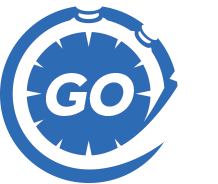
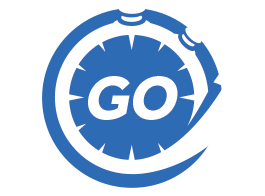
W.I.P

diff --git a/Design.css b/Design.css
@@ -93,24 +93,51 @@ body {
 	transform: scale(1.03) rotate(-5deg);
 }
 .fitness1{
-	width: 95%;
+	width: 100%;
 	height: auto;
 	display: block;
 	margin: 0 auto;
 	margin-bottom: 2%;
 }
-.fitness2{
-	position: relative;
-	height: 1000px;
-	width: auto;
-	clip-path: polygon(0 0, 80% 0, 65% 100%, 0% 100%);
+.fitness3{
+    position: absolute;
+    width: 40%;
+    clip-path: polygon(5% 35%, 100% 35%, 100% 100%, 0% 100%);
+    margin-right: 5%;
+    margin-top: 2%;
+    margin-left: -42%;
+}
+.info1{
+    float: left;
+    top: 10px;
+    background : #306CB4;
+    width: 40%;
+    height: 250px;
+    margin-bottom: 1%;
+    margin-right: 50%;
+    clip-path: polygon(0% 0, 100% 0, 95% 100%, 0% 100%);
+    margin-left: 5%;
+    z-index: 1;
+    margin-top: 2%;
 }
 
-.fitness3{
-	position: absolute;
-	height: 1000px;
-	width: auto;
-	clip-path: polygon(70% 0, 100% 0, 100% 100%, 55% 100%);
+.info1 h2{
+    padding-top: 10px;
+    padding-right: 20px;
+    padding-left: 20px;
+    height: 40px;
+    color: #F2F3F6;
+    text-decoration: none;
+    font-size: 40px;
+}
+.info1 p{
+    padding-right: 60px;
+    padding-left: 20px;
+    padding-bottom: 10px;
+    height: 40px;
+    color: #F2F3F6;
+    text-decoration: none;
+    font-size: 20px;
 }
 .Text1{
 	width: 100%;
@@ -134,7 +161,6 @@ body {
 .Ueberschrift{
 	width: 100%;
 	text-align: center;
-	text-shadow: 2px 2px 5px #00063D;
 	margin-top: -3%;
 	font-weight: 600;
 	font-size: 620%;
@@ -205,13 +231,13 @@ a.krafttraining:hover ~ .fitnesstext4{
 	float: left;
 }
 .footer{
-	position: relative;
+    position: relative;
     width: 100%;
     height: 15%;
     right: 0;
     bottom: 0;
     left: 0;
-    color: #000; 
+    color: #000;
     background-color: #306CB4;
     clear: both;
 }

diff --git a/MyTime - Startseite.html b/MyTime - Startseite.html
@@ -49,8 +49,11 @@
 				<p>GET STARTED NOW!</p>
 				</div>
 			</div>
-			<img src="Bilder/Go-Button-centered.png" alt="Go-Button" class="goButton">
-			<img src="Bilder/pic-3.png" alt="fitness2" class="fitness2" height="auto" width="70%">
+			<img src="Bilder/Go-Button.png" alt="Go-Button" class="goButton">
+			<div class="info1">
+				<h2>Lace Up Your Shoes!</h2>
+				<p>Get going with MyTime now and get your Workout Plan for today right now. Do not waste anymore time trying to fit your Sessions into your tight time table. Let us do the Trick for you!</p>
+			</div>
 			<img src="Bilder/pic-2.png" alt="fitness3" class="fitness3" height="auto" width="70%">
 		</div>
 		<div class="footer">
